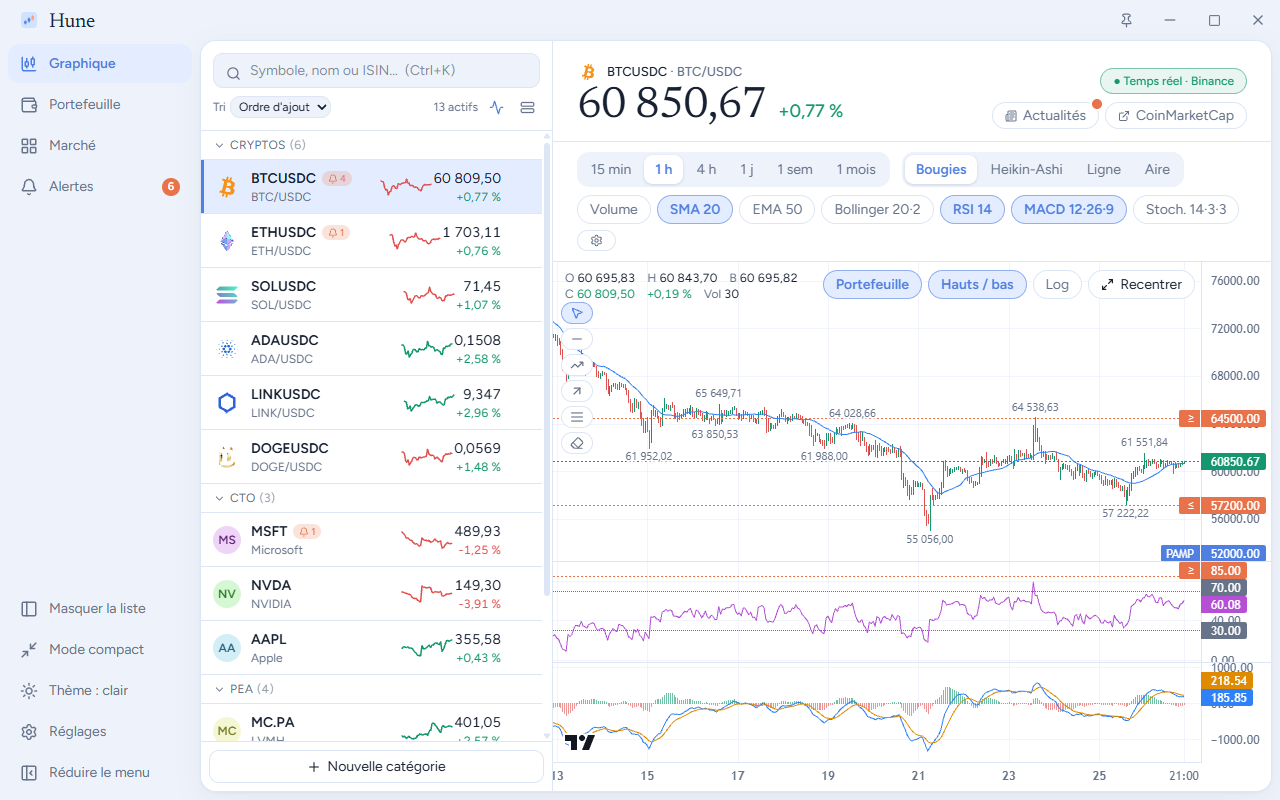
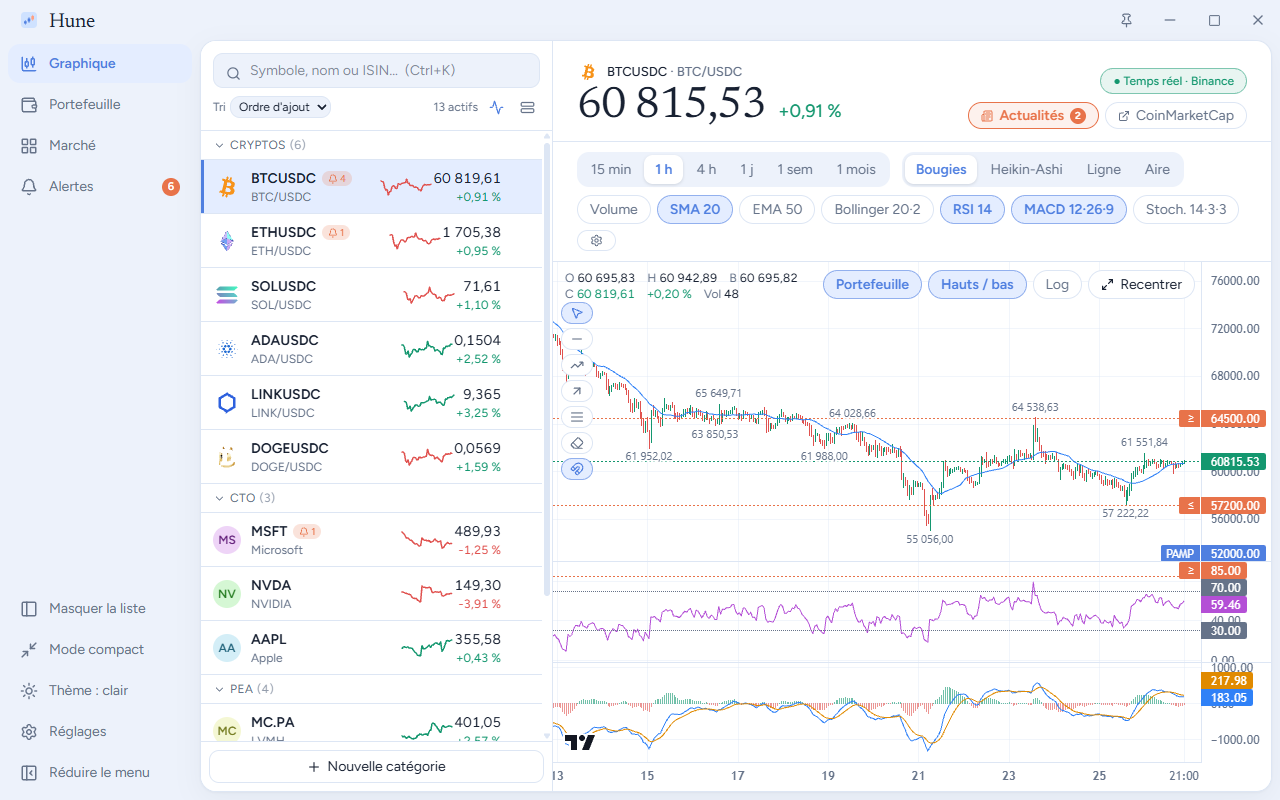
0.11.2 : aimant sur les bougies, bouton Actualites plus visible avec compteur

diff --git a/src/graphique.tsx b/src/graphique.tsx
@@ -17,12 +17,13 @@ import {
   type Time,
   type UTCTimestamp,
 } from "lightweight-charts";
-import { AlignJustify, ArrowUpRight, Bell, Eraser, Maximize2, MousePointer2, Minus, Pencil, Settings, Trash2, TrendingUp } from "lucide-react";
+import { AlignJustify, ArrowUpRight, Bell, Eraser, Magnet, Maximize2, MousePointer2, Minus, Pencil, Settings, Trash2, TrendingUp } from "lucide-react";
 import { useEffect, useRef, useState } from "react";
 import { PERIODES_VARIATION, type Alerte } from "./alertes/moteur";
 import { fournisseur } from "./donnees";
 import { LIBELLE_PROFONDEUR, PROFONDEUR_DISPONIBLE, PROFONDEURS, type Profondeur } from "./donnees/historique";
 import { INTERVALLES, LIBELLE_INTERVALLE, SECONDES_INTERVALLE, type Actif, type Bougie, type Intervalle } from "./donnees/types";
+import { aimanter } from "./aimant";
 import { LIBELLE_DESSIN, POINTS_REQUIS, tempsDepuisIndice, type Dessin, type PointDessin, type TypeDessin } from "./dessins";
 import { CalqueDessins } from "./dessins-calque";
 import { arrondirPrix, formaterPrix } from "./format";
@@ -173,6 +174,10 @@ export function Graphique({ actif, intervalle, surIntervalle, profondeur, surPro
   /** Lignes d'alerte de prix par identifiant (pour les déplacer pendant un glissement). */
   const lignesAlertesParId = useRef(new Map<string, IPriceLine>());
   /** Alerte en cours de déplacement à la souris. */
+  /** Aimant : les tracés et alertes se calent sur les bougies (choix mémorisé). */
+  const [aimant, setAimant] = useState(() => localStorage.getItem("hune.aimant") !== "0");
+  const aimantRef = useRef(aimant);
+  aimantRef.current = aimant;
   const glissement = useRef<{ id: string; prix: number; departY: number; bouge: boolean } | null>(null);
   const [outil, setOutil] = useState<Outil>("curseur");
   const [effacerTout, setEffacerTout] = useState(false);
@@ -568,11 +573,20 @@ export function Graphique({ actif, intervalle, surIntervalle, profondeur, surPro
     return { r, largeur: r.width - (ch?.priceScale("right").width() ?? 0), hauteur: ch?.panes()[0]?.getHeight() ?? 0 };
   };
 
+  /** Prix calé sur l'ouverture, le plus haut, le plus bas ou la clôture de la bougie située en x (si l'aimant est actif et qu'une valeur est proche). */
+  const aimanterPrix = (x: number, prix: number): number => {
+    if (!aimantRef.current) return prix;
+    const logique = graphique.current?.timeScale().coordinateToLogical(x);
+    if (logique == null) return prix;
+    return aimanter(donnees.current[Math.round(logique)], prix, (p) => principale.current?.priceToCoordinate(p) ?? null);
+  };
+
   /** Point (instant, prix) sous la souris ; l'instant est calé sur une bougie, y compris dans le vide à droite ou à gauche. */
   const ancrage = (x: number, y: number): PointDessin | null => {
     const logique = graphique.current?.timeScale().coordinateToLogical(x);
-    const prix = principale.current?.coordinateToPrice(y);
-    if (logique == null || prix == null) return null;
+    const brut = principale.current?.coordinateToPrice(y);
+    if (logique == null || brut == null) return null;
+    const prix = aimanterPrix(x, brut);
     return { temps: tempsDepuisIndice(tempsBougies(), Math.round(logique), SECONDES_INTERVALLE[intervalleRef.current]), prix };
   };
 
@@ -650,7 +664,8 @@ export function Graphique({ actif, intervalle, surIntervalle, profondeur, surPro
       const g = glissement.current;
       if (g) {
         if (Math.abs(y - g.departY) > 3) g.bouge = true;
-        const prix = g.bouge ? principale.current?.coordinateToPrice(y) : null;
+        const brut = g.bouge ? principale.current?.coordinateToPrice(y) : null;
+        const prix = brut != null ? aimanterPrix(x, brut) : null;
         if (prix != null && prix > 0) {
           g.prix = prix;
           lignesAlertesParId.current.get(g.id)?.applyOptions({ price: prix });
@@ -771,7 +786,7 @@ export function Graphique({ actif, intervalle, surIntervalle, profondeur, surPro
     const hauteurPrix = graphique.current?.panes()[0]?.getHeight() ?? 0;
     const brut = principale.current?.coordinateToPrice(y);
     if (brut == null || y > hauteurPrix) return setMenu(null); // pas sur le panneau des prix
-    setMenu({ x, y, prix: arrondirPrix(brut), dessinId: calque.current?.toucher(x, y, zonePrix().largeur) ?? null, alerteId: alerteSous(y)?.id ?? null });
+    setMenu({ x, y, prix: arrondirPrix(aimanterPrix(x, brut)), dessinId: calque.current?.toucher(x, y, zonePrix().largeur) ?? null, alerteId: alerteSous(y)?.id ?? null });
   };
 
   const dernierPrix = donnees.current[donnees.current.length - 1]?.cloture;
@@ -870,6 +885,18 @@ export function Graphique({ actif, intervalle, surIntervalle, profondeur, surPro
           ))}
           <button className="puce !px-2" aria-pressed={outil === "gomme"} title="Gomme : cliquez sur un tracé pour le supprimer" aria-label="Gomme" onClick={() => setOutil(outil === "gomme" ? "curseur" : "gomme")}>
             <Eraser size={14} />
+          </button>
+          <button
+            className="puce !px-2"
+            aria-pressed={aimant}
+            title="Aimant : les tracés et les alertes se calent sur l'ouverture, le plus haut, le plus bas et la clôture des bougies"
+            aria-label="Aimant"
+            onClick={() => {
+              localStorage.setItem("hune.aimant", aimant ? "0" : "1");
+              setAimant(!aimant);
+            }}
+          >
+            <Magnet size={14} />
           </button>
           {dessins.length > 0 && (
             <button

diff --git a/src/entete.tsx b/src/entete.tsx
@@ -1,7 +1,7 @@
 import { ExternalLink, Newspaper } from "lucide-react";
 import { useEffect, useState } from "react";
 import { fournisseur } from "./donnees";
-import { actualiteNouvelle, actualitesActif, type Actualite } from "./donnees/actualites";
+import { actualiteNouvelle, actualitesActif, nombreNouvelles, type Actualite } from "./donnees/actualites";
 import { cleActif, type Actif, type Cotation } from "./donnees/types";
 import { classePct, formaterPct, formaterPrix } from "./format";
 import { IconeActif } from "./icone-actif";
@@ -54,19 +54,20 @@ function useActualites(actif: Actif) {
     // eslint-disable-next-line react-hooks/exhaustive-deps
   }, [cle]);
   const nouvelle = actualiteNouvelle(actus, vuLe, Date.now());
+  const nombre = nouvelle ? nombreNouvelles(actus, vuLe, Date.now()) : 0;
   const marquerVu = () => {
     const maintenant = Date.now();
     ecrireVu(cle, maintenant);
     setVuLe(maintenant);
   };
-  return { nouvelle, marquerVu };
+  return { nouvelle, nombre, marquerVu };
 }
 
 /** Bandeau au-dessus du graphique : actif, prix, variation et — surtout — nature des données (temps réel ou différées). */
 export function EnteteActif({ actif, cotation, prixLive }: { actif: Actif; cotation?: Cotation; prixLive: number | null }) {
   const f = fournisseur(actif.source);
   const prix = prixLive ?? cotation?.prix;
-  const { nouvelle, marquerVu } = useActualites(actif);
+  const { nouvelle, nombre, marquerVu } = useActualites(actif);
   return (
     <header className="flex items-end justify-between gap-4 px-6 pb-3 pt-5">
       <div className="min-w-0">
@@ -92,7 +93,7 @@ export function EnteteActif({ actif, cotation, prixLive }: { actif: Actif; cotat
           {liensExternes(actif).map((l, i) => (
             <button
               key={l.url}
-              className="puce relative !py-[2px] text-xs"
+              className={`puce !py-[2px] text-xs ${i === 0 && nouvelle ? "!border-alerte !bg-alerte/10 !font-semibold !text-alerte" : ""}`}
               title={i === 0 && nouvelle ? `Nouveau : ${nouvelle.titre} (${nouvelle.editeur}, ${depuis(nouvelle.date)})` : l.aide}
               onClick={() => {
                 if (i === 0) marquerVu();
@@ -100,7 +101,11 @@ export function EnteteActif({ actif, cotation, prixLive }: { actif: Actif; cotat
               }}
             >
               {i === 0 ? <Newspaper size={12} /> : <ExternalLink size={12} />} {l.libelle}
-              {i === 0 && nouvelle && <span aria-label="Nouvelle actualité" className="absolute -right-1 -top-1 h-2.5 w-2.5 rounded-full bg-alerte ring-2 ring-carte" />}
+              {i === 0 && nouvelle && (
+                <span aria-label={`${nombre} nouvelle${nombre > 1 ? "s" : ""} actualité${nombre > 1 ? "s" : ""}`} className="grid h-4 min-w-4 place-items-center rounded-full bg-alerte px-1 text-[10px] font-semibold leading-none text-white">
+                  {nombre > 9 ? "9+" : nombre}
+                </span>
+              )}
             </button>
           ))}
         </div>

diff --git a/src/aimant.ts b/src/aimant.ts
@@ -1,0 +1,27 @@
+import type { Bougie } from "./donnees/types";
+
+/** Distance (en pixels) en deçà de laquelle un prix se cale sur la valeur d'une bougie. */
+export const SEUIL_AIMANT_PX = 10;
+
+/**
+ * Aimant façon TradingView : ramène `prix` sur l'ouverture, le plus haut, le plus bas ou la clôture de la bougie
+ * s'il en est à moins de `seuilPx` pixels à l'écran ; sinon le prix est laissé tel quel.
+ * `versPixel` convertit un prix en ordonnée (null si l'échelle n'est pas prête).
+ */
+export function aimanter(bougie: Pick<Bougie, "ouverture" | "haut" | "bas" | "cloture"> | undefined, prix: number, versPixel: (prix: number) => number | null, seuilPx = SEUIL_AIMANT_PX): number {
+  if (!bougie) return prix;
+  const y = versPixel(prix);
+  if (y == null) return prix;
+  let meilleur = prix;
+  let ecart = Infinity;
+  for (const candidat of [bougie.ouverture, bougie.haut, bougie.bas, bougie.cloture]) {
+    const yc = versPixel(candidat);
+    if (yc == null) continue;
+    const d = Math.abs(yc - y);
+    if (d <= seuilPx && d < ecart) {
+      ecart = d;
+      meilleur = candidat;
+    }
+  }
+  return meilleur;
+}

diff --git a/src/aimant.test.ts b/src/aimant.test.ts
@@ -1,0 +1,21 @@
+import { describe, expect, it } from "vitest";
+import { aimanter } from "./aimant";
+
+// Échelle de test : 1 unité de prix = 2 pixels (l'ordonnée décroît quand le prix monte, sans importance ici).
+const versPixel = (p: number) => 1000 - p * 2;
+const bougie = { ouverture: 100, haut: 110, bas: 95, cloture: 105 };
+
+describe("aimanter", () => {
+  it("se cale sur la valeur la plus proche si elle est à moins de 10 px", () => {
+    expect(aimanter(bougie, 108, versPixel)).toBe(110); // 4 px du plus haut, 6 px de la clôture
+    expect(aimanter(bougie, 96.5, versPixel)).toBe(95); // 3 px du plus bas
+  });
+  it("garde le prix hors de portée de l'aimant", () => {
+    expect(aimanter(bougie, 120, versPixel)).toBe(120);
+    expect(aimanter(bougie, 102.5, versPixel)).toBe(100); // 5 px de l'ouverture, 5 px de la clôture : l'ouverture, testée en premier
+  });
+  it("ne fait rien sans bougie ou sans échelle", () => {
+    expect(aimanter(undefined, 108, versPixel)).toBe(108);
+    expect(aimanter(bougie, 108, () => null)).toBe(108);
+  });
+});

diff --git a/src/donnees/actualites.test.ts b/src/donnees/actualites.test.ts
@@ -1,5 +1,5 @@
 import { describe, expect, it } from "vitest";
-import { actualiteNouvelle, actualitesPertinentes } from "./actualites";
+import { actualiteNouvelle, actualitesPertinentes, nombreNouvelles } from "./actualites";
 
 const brute = (titre: string, date: number, tickers: string[]) => ({ title: titre, publisher: "Éditeur", providerPublishTime: date, link: "https://exemple.test/" + date, relatedTickers: tickers });
 
@@ -27,5 +27,14 @@ describe("actualiteNouvelle", () => {
   });
   it("rien sans actualité", () => {
     expect(actualiteNouvelle([], 0, maintenant)).toBeNull();
+  });
+});
+
+describe("nombreNouvelles", () => {
+  const maintenant = 1_000_000 * 1000;
+  const a = (ageH: number) => ({ titre: "t", editeur: "e", date: 1_000_000 - ageH * 3600, lien: "" });
+  it("compte les articles de moins de 24 h publiés après la dernière consultation", () => {
+    expect(nombreNouvelles([a(1), a(5), a(30)], 0, maintenant)).toBe(2);
+    expect(nombreNouvelles([a(1), a(5), a(30)], maintenant - 2 * 3600 * 1000, maintenant)).toBe(1);
   });
 });

diff --git a/src/donnees/actualites.ts b/src/donnees/actualites.ts
@@ -40,6 +40,11 @@ export function actualiteNouvelle(actus: Actualite[], vuLe: number, maintenantMs
   return maintenantMs - ms <= delaiS * 1000 && ms > vuLe ? recente : null;
 }
 
+/** Nombre d'actualités nouvelles (même règle que `actualiteNouvelle`) : récentes et publiées après la dernière consultation. */
+export function nombreNouvelles(actus: Actualite[], vuLe: number, maintenantMs: number, delaiS = 24 * 3600): number {
+  return actus.filter((a) => maintenantMs - a.date * 1000 <= delaiS * 1000 && a.date * 1000 > vuLe).length;
+}
+
 const requeteur = new Requeteur();
 
 async function chercher(q: string): Promise<BrutActualite[]> {

diff --git a/README.md b/README.md
@@ -37,7 +37,7 @@ Chandeliers de **15 min à 1 mois** (15 min, 1 h, 4 h, 1 j, 1 sem, 1 mois), Heik
 
 **Analyse** : les **valeurs des plus hauts et plus bas dominants** sont écrites sur le graphique (bouton « Hauts / bas », nombre d'étiquettes adapté au zoom).
 
-**Outils de tracé** : ligne horizontale, ligne de tendance, rayon, retracement de **Fibonacci** et gomme. Les tracés sont mémorisés par actif et suivent le zoom. **Votre portefeuille sur le graphique** : PAMP, objectif (TP) et repères d'achat/vente de vos transactions importées.
+**Outils de tracé** : ligne horizontale, ligne de tendance, rayon, retracement de **Fibonacci** et gomme. Les tracés sont mémorisés par actif et suivent le zoom. Un **aimant** (bouton en forme d'aimant, activé par défaut) cale les tracés, les alertes que l'on déplace et le niveau « Alerter si… » du clic droit sur l'ouverture, le plus haut, le plus bas ou la clôture de la bougie voisine, comme sur TradingView. **Votre portefeuille sur le graphique** : PAMP, objectif (TP) et repères d'achat/vente de vos transactions importées.
 
 **Historique long** : à partir du journalier, choisissez la profondeur *Standard*, *5 ans* ou *Max*, ou **dézoomez simplement** : au-delà de la première bougie, Hune charge la profondeur suivante. Binance remonte jusqu'au début de la cotation de la paire (BTC/USDC : 2018, BTC/USDT : 2017) ; Yahoo remonte jusqu'à l'introduction en bourse (Microsoft : 1986) ou à la création de la crypto (BTC : 2014). Aucune clé n'est nécessaire. En intraday, les sources limitent elles-mêmes la profondeur.
 
@@ -117,7 +117,7 @@ Vous avez déjà vos positions dans un tableur ? Voir [`scripts/importer-excel.p
 
 ## Confidentialité et réseau
 
-Hune ne contacte que des services publics de données, **sans jamais leur envoyer d'information vous concernant** : Binance (prix crypto), Yahoo Finance (actions et devises), alternative.me (indice Fear & Greed) et GitHub (recherche de mises à jour). Les boutons **Actualités** et **CoinMarketCap / Fiche** au-dessus du graphique n'envoient rien d'eux-mêmes : ils ouvrent la page de l'actif (Yahoo Finance, CoinMarketCap, CoinGecko) dans votre navigateur, seulement quand vous cliquez, avec le symbole pour seule information. Une puce rouge sur « Actualités » signale un article de moins de 24 h que vous n'avez pas ouvert : Hune lit pour cela les titres via la recherche Yahoo Finance (actif affiché seulement). Vos données sont dans `%APPDATA%\io.github.nestyxx.hune\hune.json`. Détails dans [SECURITY.md](SECURITY.md).
+Hune ne contacte que des services publics de données, **sans jamais leur envoyer d'information vous concernant** : Binance (prix crypto), Yahoo Finance (actions et devises), alternative.me (indice Fear & Greed) et GitHub (recherche de mises à jour). Les boutons **Actualités** et **CoinMarketCap / Fiche** au-dessus du graphique n'envoient rien d'eux-mêmes : ils ouvrent la page de l'actif (Yahoo Finance, CoinMarketCap, CoinGecko) dans votre navigateur, seulement quand vous cliquez, avec le symbole pour seule information. Un bouton « Actualités » rouge, avec le nombre d'articles, signale ceux de moins de 24 h que vous n'avez pas ouverts : Hune lit pour cela les titres via la recherche Yahoo Finance (actif affiché seulement). Vos données sont dans `%APPDATA%\io.github.nestyxx.hune\hune.json`. Détails dans [SECURITY.md](SECURITY.md).
 
 ## Limites à connaître
 

diff --git a/CHANGELOG.md b/CHANGELOG.md
@@ -3,6 +3,14 @@
 Toutes les évolutions notables de Hune. Format inspiré de [Keep a Changelog](https://keepachangelog.com/fr/1.1.0/) ; les versions suivent [SemVer](https://semver.org/lang/fr/).
 Le texte de chaque version sert de notes pour la release GitHub (`scripts/publier.ps1`).
 
+## [0.11.2] - 2026-11-26
+
+### Ajouté
+- **Aimant sur le graphique**, comme sur TradingView : en traçant une ligne, en déplaçant une alerte à la souris ou en créant une alerte par clic droit, le prix se cale sur l'ouverture, le plus haut, le plus bas ou la clôture de la bougie voisine quand il en est à moins de 10 pixels. Bouton en forme d'aimant dans la barre d'outils de tracé (activé par défaut, choix mémorisé).
+
+### Modifié
+- **Bouton « Actualités »** bien plus visible quand il y a du nouveau : il passe en rouge et affiche le nombre d'articles de moins de 24 h non ouverts (9+ au-delà), au lieu d'une simple pastille.
+
 ## [0.11.1] - 2026-11-26
 
 ### Ajouté
